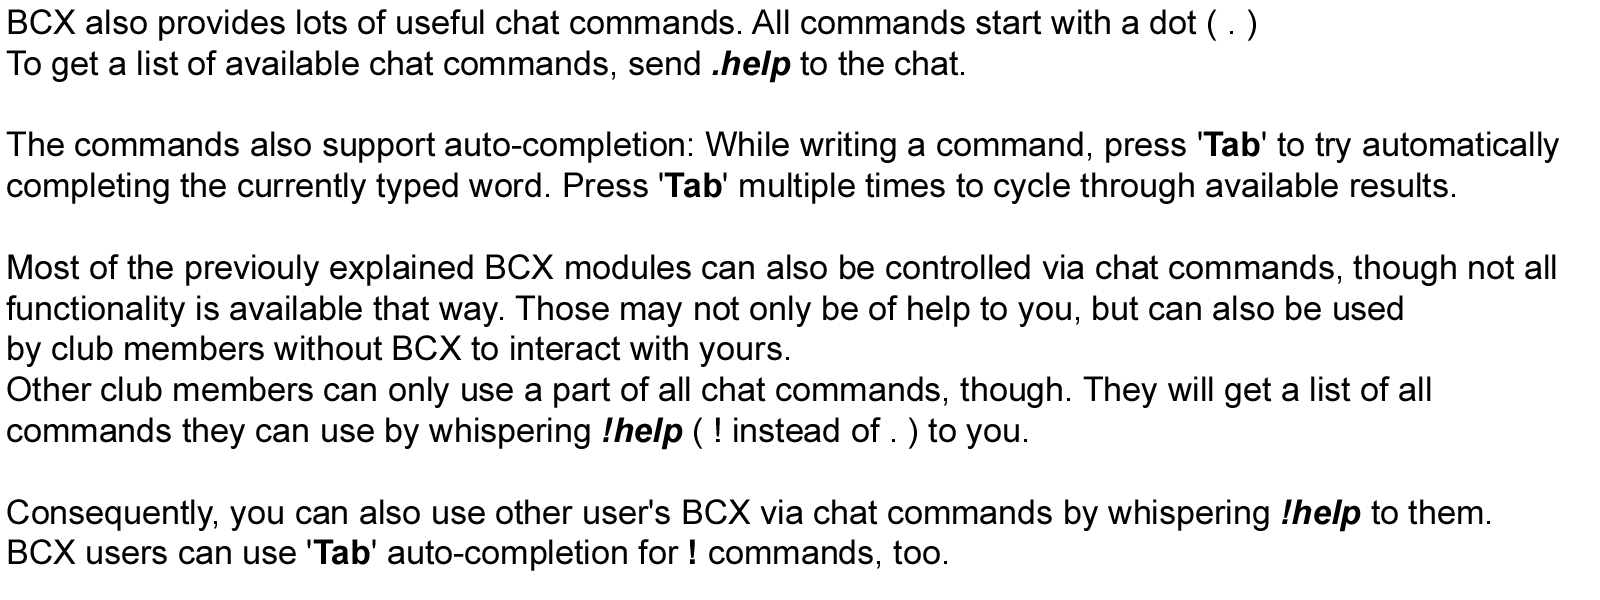
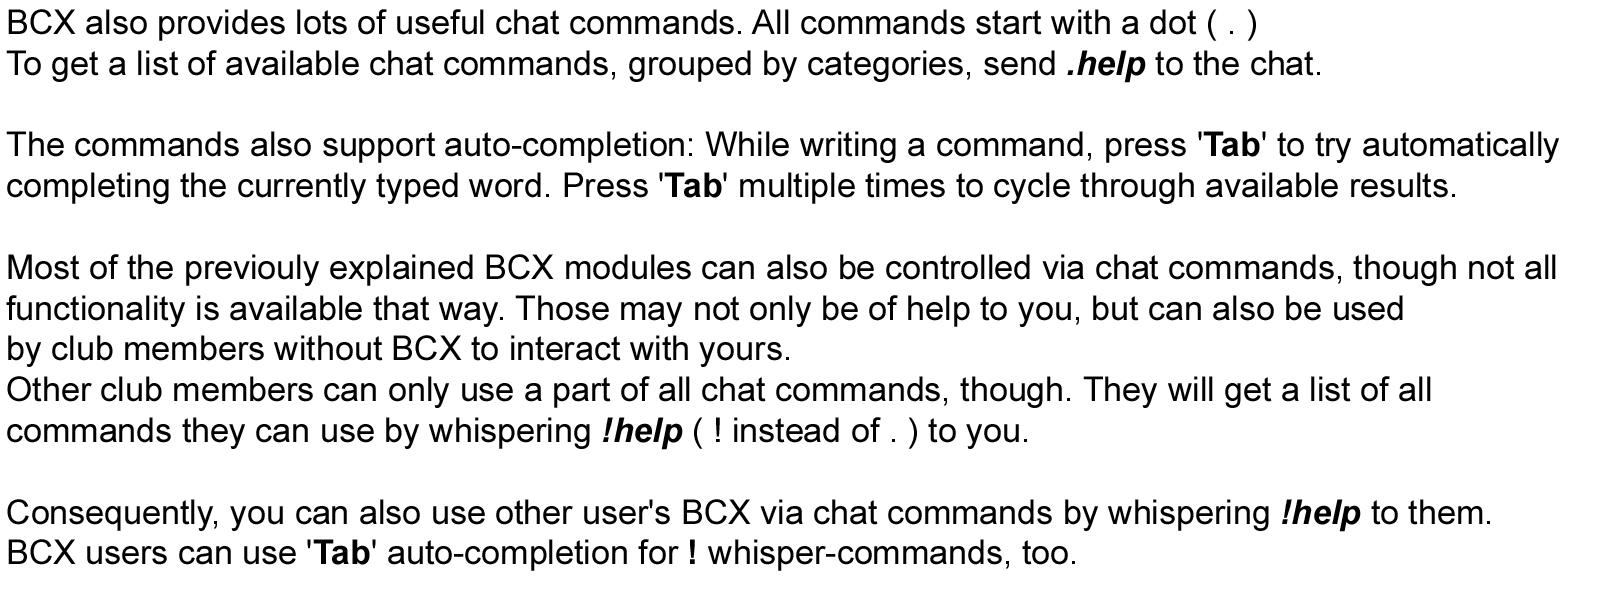
Add tutorial for commands module

Changed region(s): [[0.375, 0.09, 0.8438, 0.15], [0.4375, 0.9, 0.6875, 0.96]]

diff --git a/src/gui/tutorial.ts b/src/gui/tutorial.ts
@@ -85,6 +85,10 @@ const TUTORIAL_PAGES: TutorialPage[] = [
 		image: "limit_system.png"
 	},
 	{
+		name: "Commands module overview",
+		image: "commands.png"
+	},
+	{
 		name: "Trigger conditions",
 		image: "trigger_conditions.png"
 	},
